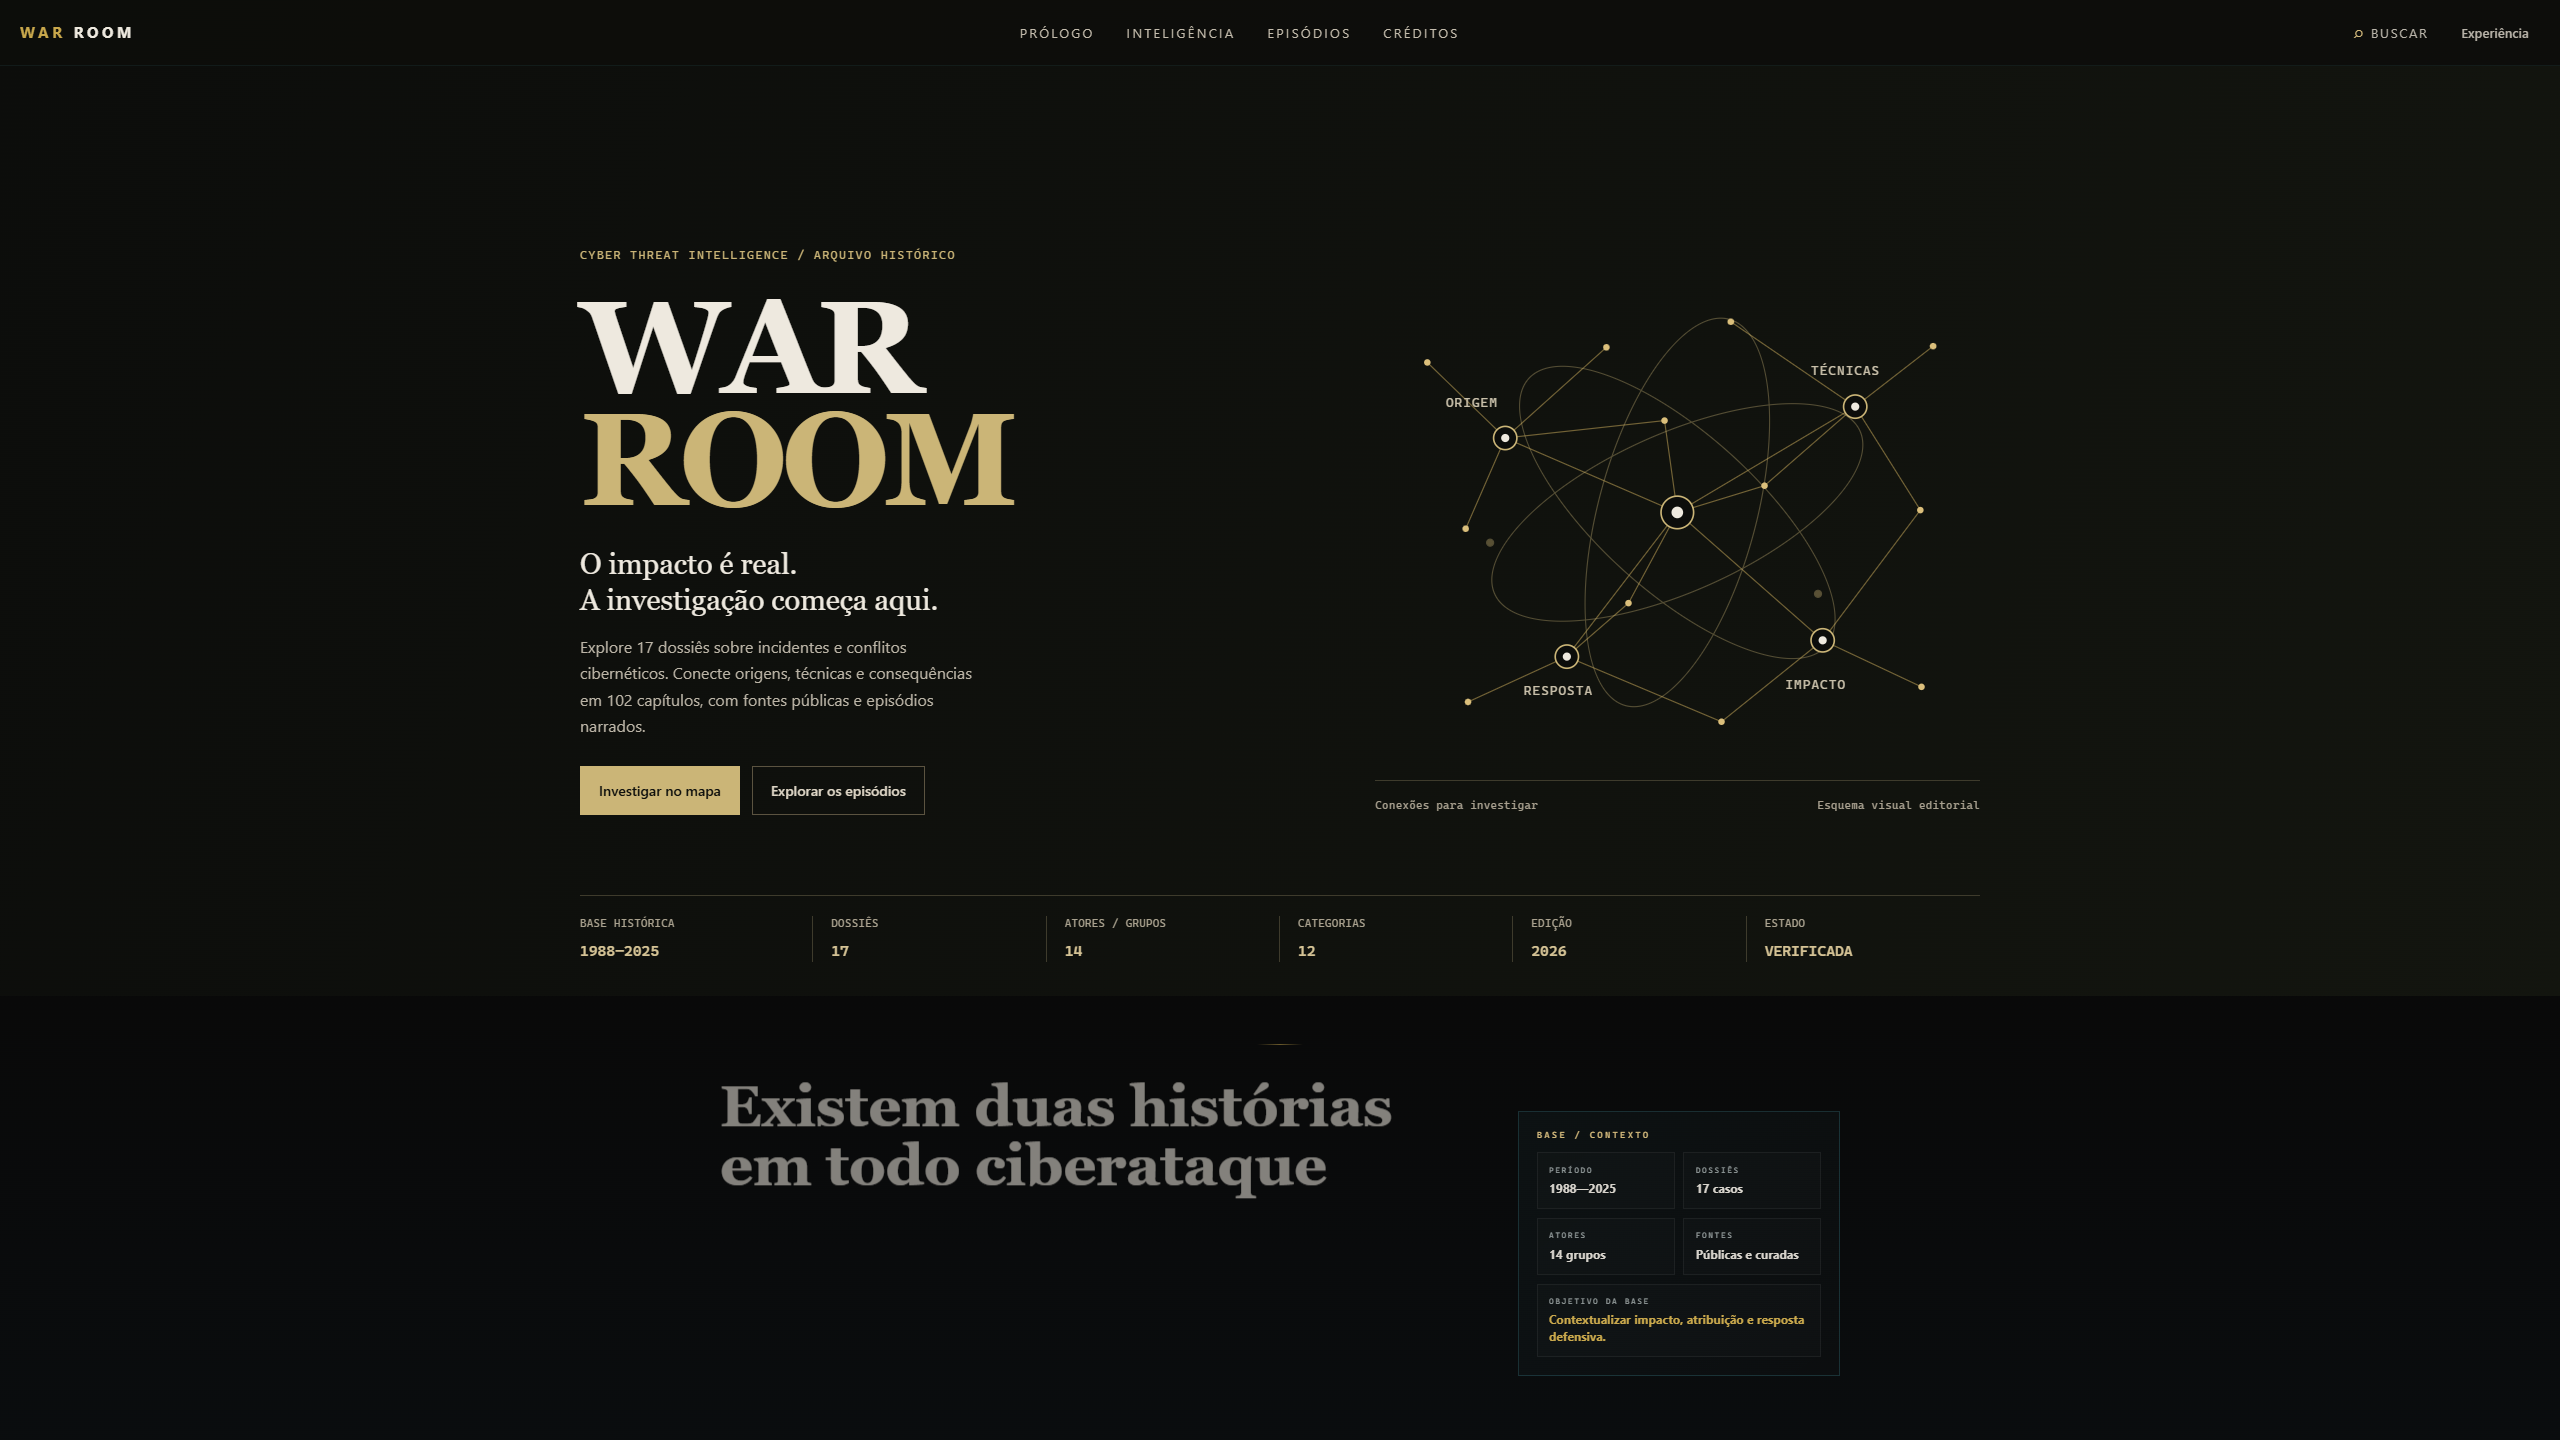
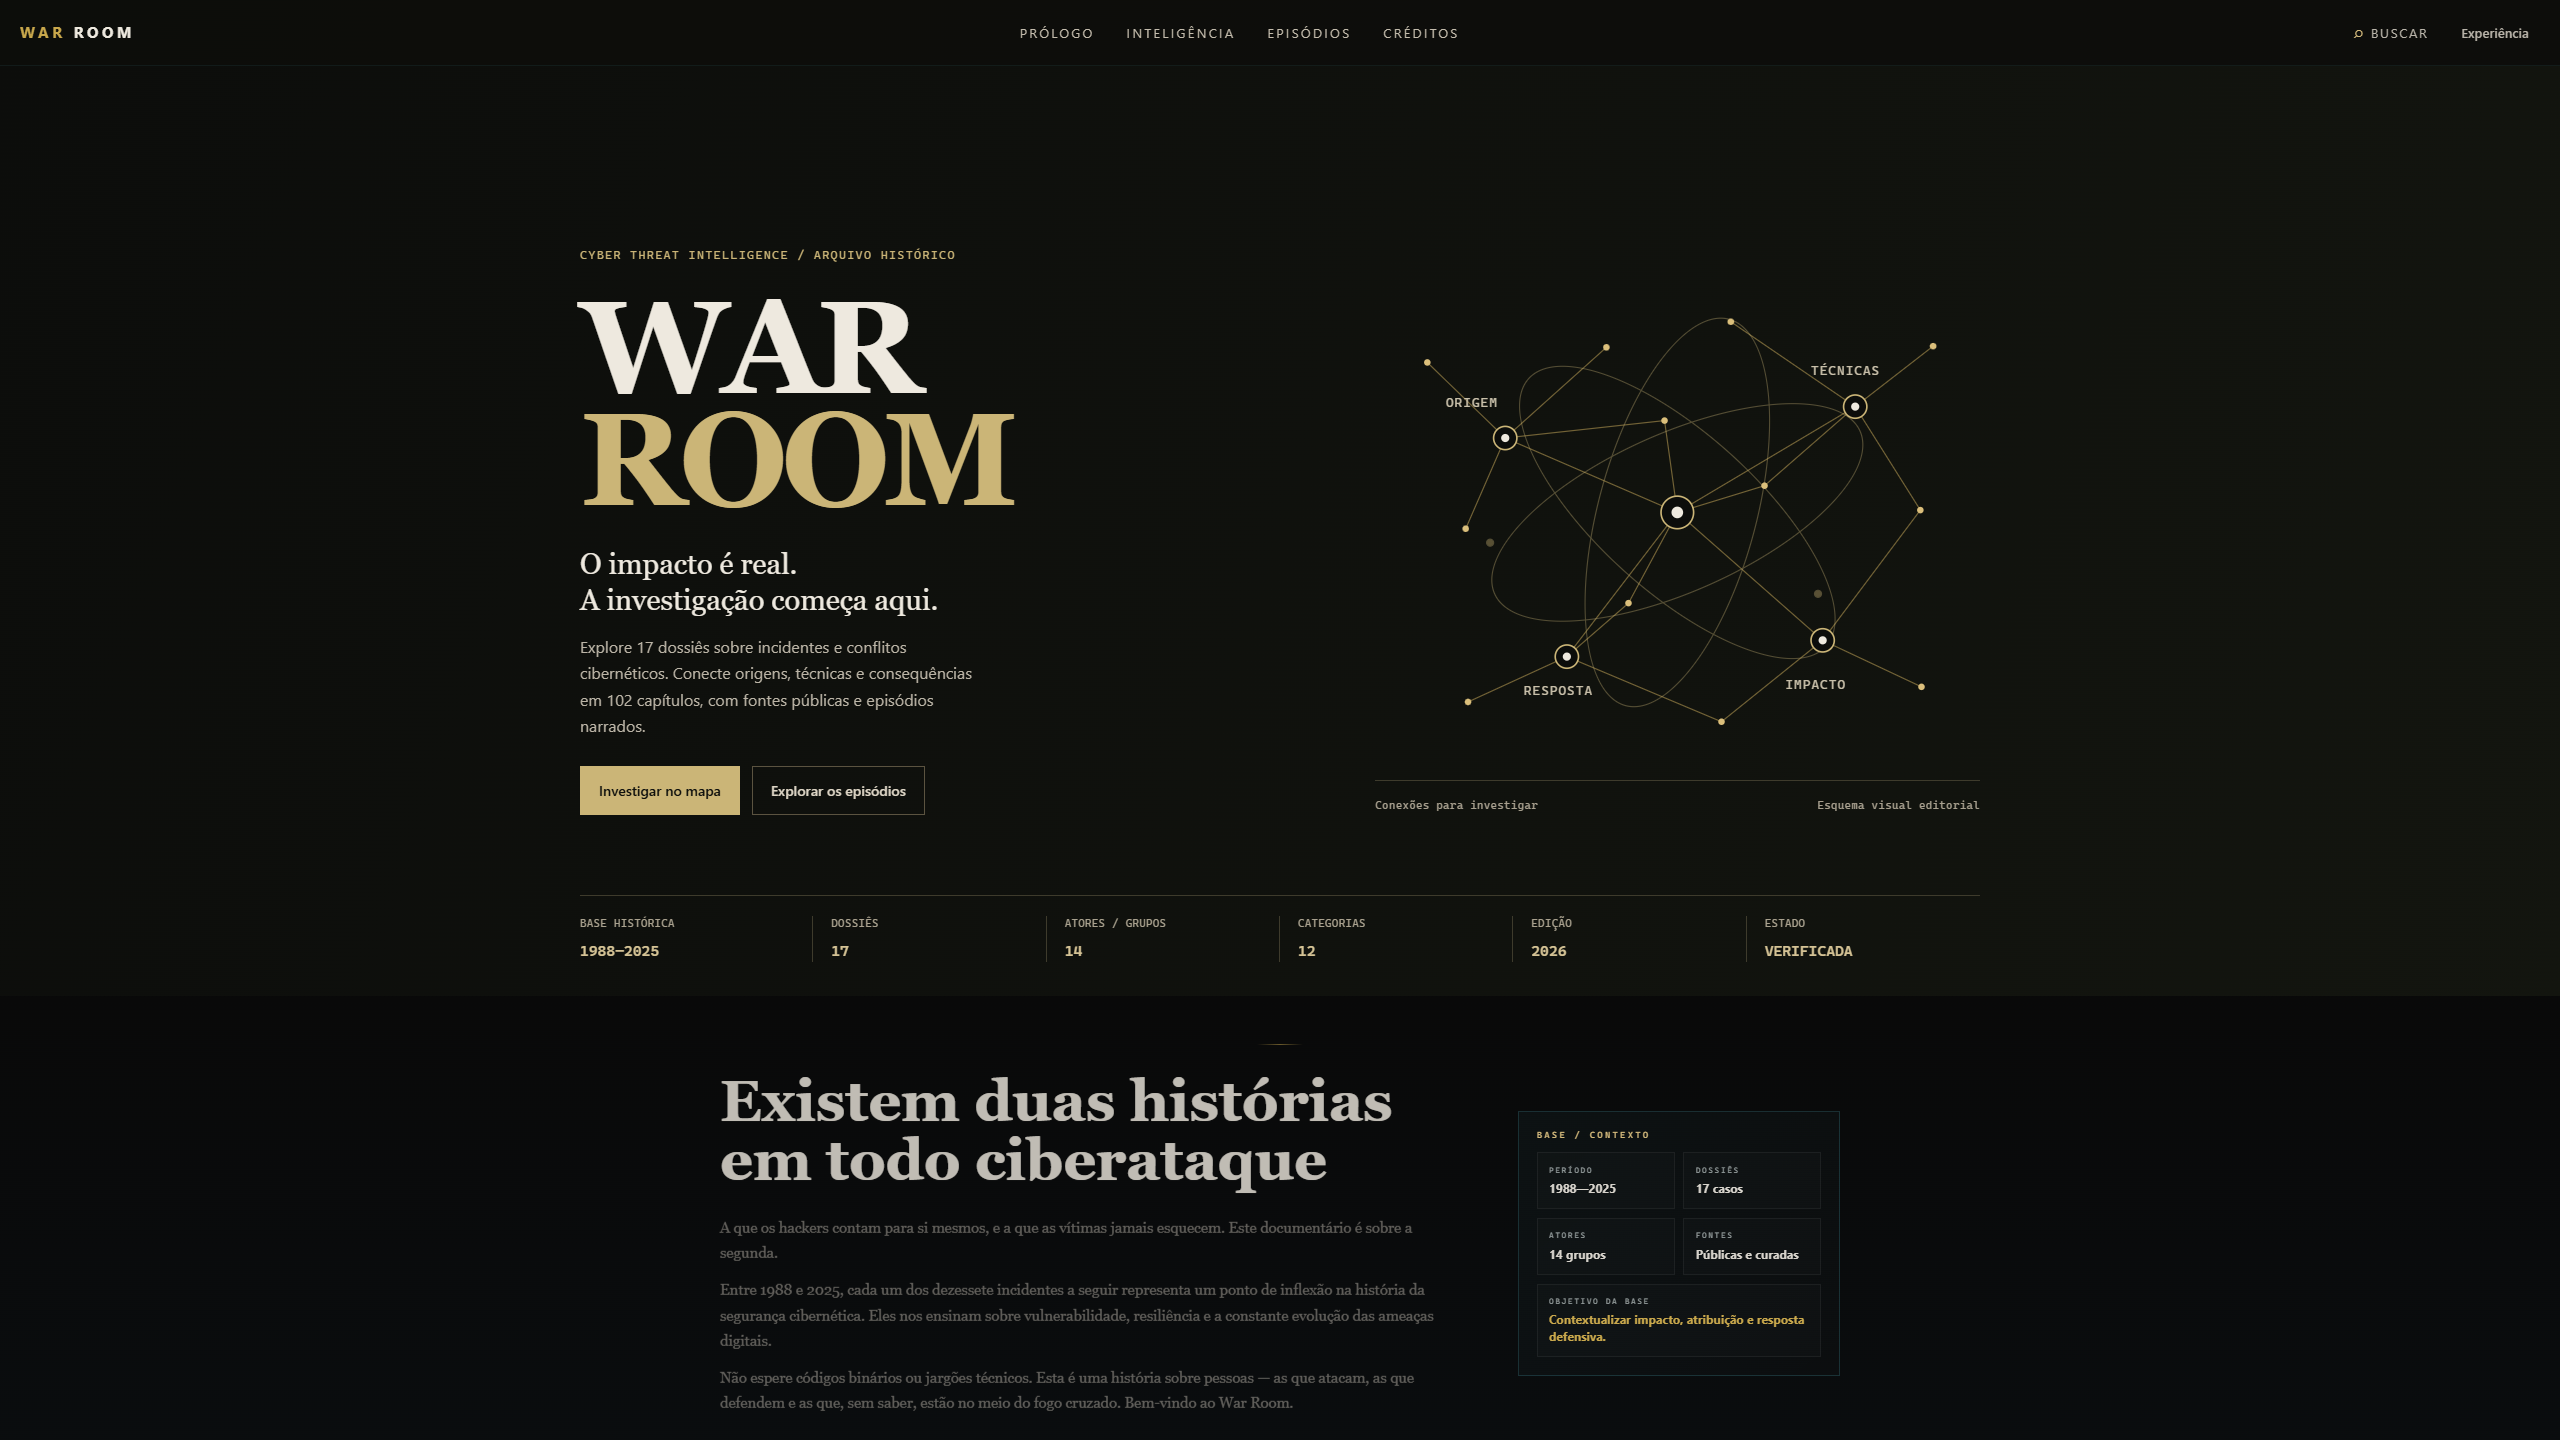
docs(release): record verified entrance and HD campaign publication

diff --git a/docs/ENTRANCE_VALIDATION.md b/docs/ENTRANCE_VALIDATION.md
@@ -28,6 +28,7 @@ Os arquivos brutos da medição ficam em `audit/hero-before-be43e1e.json`, `audi
 - `tests/verify-experience.cjs`: desktop/mobile, 17 dossiês, abas, teclado, foco, Escape, histórico, busca, filtros, corrida/falha de galeria, efeitos reduzidos e vídeo real. As falhas/corridas remotas usam fixtures determinísticas.
 - `tests/verify-documentaries.cjs`: 102 capítulos em desktop/mobile, imagens locais, mapas, fontes, links diretos, histórico e renderização sob demanda.
 - Quatro verificadores originais, integridade canônica e `git diff --check` executados na entrega. Capturas revisadas em `assets/screenshots/entrance/`.
+- `tests/verify-release-files.cjs`: comparação dos bytes dos 16 PNGs/mestres e ZIP, fontes de entrada, prévia de download, link direto e reprodução real de capítulo/episódio com pausa em mudança de aba e Escape, em desktop/mobile. A barra do preloader recebe verificação de tamanho para evitar o encolhimento pelo layout flex legado.
 
 ## Materiais
 
@@ -41,4 +42,12 @@ A rede da hero é editorial, sem representar relações causais do corpus. Teste
 
 ## Publicação
 
-A publicação desta atualização foi explicitamente solicitada pelo proprietário. Branch de trabalho `codex/war-room-experience` preservada; Pages permanece estático na raiz da branch main, com caminhos relativos sob `/WAR_ROOM/`. O resultado e a revisão servida serão registrados após o deploy.
+A publicação desta atualização foi explicitamente solicitada pelo proprietário. Branch de trabalho `codex/war-room-experience` preservada; main avançada sem force push. Runtime final da entrada: `a9272bf`, [Pages run 37151443101 aprovado](https://github.com/EDY075/WAR_ROOM/actions/runs/37151443101). Pages permanece estático na raiz de main, com caminhos relativos sob `/WAR_ROOM/`.
+
[1 lines of base64/hex data omitted]
+
+Preview e download público: [materiais de divulgação](https://edy075.github.io/WAR_ROOM/assets/media/war-room-launch-2026/). As oito peças/mestres não foram alteradas depois da verificação do ZIP.
+
+O portfólio recebeu a captura real da nova entrada em DPR 2, reduzida para WebP 640/1080/1600 com novos nomes para evitar cache antigo. Runtime `01af7f2`, Worker `85c20a35-3a11-4be5-9bf5-5e7f8c3e0b30`; lint/tipagem/build/dry-run, integração pública desktop/mobile, links, galeria/3D, foco/Escape, transição e hashes das três capas aprovados. O checkout original permanece intacto: 276 hashes, zero diferenças. A auditoria adicional npm apontou 12 avisos preexistentes (10 high / 2 moderate); package/lockfile não foram alterados e não houve atualização forçada de dependências. Essa auditoria é uma limitação registrada, não um teste aprovado. Detalhes no `docs/DEPLOYMENT.md` do portfólio.
+
+Revisões seguintes de documentação/capturas/testes não mudam o runtime indicado acima.

diff --git a/.ai/AI_HANDOFF.md b/.ai/AI_HANDOFF.md
@@ -8,6 +8,8 @@ Read the documents in the order defined by [README.md](README.md). Then run `git
 
 Latest sprint: the owner requested a lighter, clearer hero/preloader, mouse sparks instead of the circular glow, three social credits, fresh website publication and a ZIP of HD Instagram/LinkedIn pieces. Implemented static editorial SVG network, bounded pointer-only sparks, no idle hero JS rendering or artificial intro minimum, larger map shell and confirmed Instagram edmilson_zn_. Read [ENTRANCE_VALIDATION.md](../docs/ENTRANCE_VALIDATION.md) for current before/after evidence and `assets/media/war-room-launch-2026/` for eight upload images, eight 2× masters, editable source and copy. No social posting or audio regeneration is part of this sprint.
 
+Published/verified: WAR ROOM runtime `a9272bf`, Pages run `37151443101`; portfolio cover runtime `01af7f2`, Worker `85c20a35-3a11-4be5-9bf5-5e7f8c3e0b30`. Public desktop/mobile suites cover all 17 dossiers/102 chapters and current entrance; ZIP/16 image/master bytes match. Original dirty portfolio checkout preserved (276 hashes unchanged). Existing portfolio npm advisories are documented; do not apply force dependency changes as part of an image refresh.
+
 The 2026-10-03 documentary evolution was published to main, GitHub Pages and the existing portfolio after explicit owner authorization; `codex/war-room-experience` is preserved. The user extended the documentary standard to every case: 17 six-chapter narratives, local real cartography, labeled artwork, plus the NotPetya campaign with narrated/silent video. The user then approved their own voice sample and authorized prolonged narration for every case: 17 full episodes, 102 chapter MP3s, clarity treatment and reading/source-linked lazy controls. Production/QA: [NARRATION_PRODUCTION.md](../docs/NARRATION_PRODUCTION.md). Read [CURRENT_STATE.md](CURRENT_STATE.md) for tabs/history/motion changes, artifacts and fresh browser/CDP evidence. On 2026-10-03 the owner explicitly authorized publishing the update to GitHub, GitHub Pages and their existing portfolio. Publication is complete; deployment evidence is recorded in CURRENT_STATE.md and [PUBLICATION_2026-10-03.md](../docs/PUBLICATION_2026-10-03.md). v1.1.0 remains the previous historical tag.
 
 - Project: WAR ROOM, a static Cyber Threat Intelligence center with cinematic dossier narratives.

diff --git a/.ai/CURRENT_STATE.md b/.ai/CURRENT_STATE.md
@@ -3,10 +3,10 @@
 | Field | State |
 | --- | --- |
 | Public release | Documentary edition published 2026-10-03; previous tag `v1.1.0 — CTI Evolution` preserved |
-| Current work | Documentary experience, cartography, campaign and authorized prolonged personal-voice narration across all 17 cases, published on GitHub, Pages and the portfolio |
+| Current work | All 17 documentaries/narrations preserved; lighter entrance, social credits and HD campaign published; portfolio cover synchronized |
 | Branch | Public `main`; `codex/war-room-experience` preserved |
 | Last sprint | 2026-10-03 · lighter hero/preloader, bounded sparks, confirmed social credits and HD launch package |
-| Last commit | Resolve with `git log -1 --oneline`; runtime `58ee3e4`; documentation revision resolves with git log |
+| Last commit | Resolve with `git log -1 --oneline`; entrance runtime `a9272bf`; documentation revisions resolve with git log |
 | Public Pages | https://edy075.github.io/WAR_ROOM/ (documentary edition live) |
 | Local preview | http://127.0.0.1:4173/WAR_ROOM/?tab=story#dossier-notpetya |
 
@@ -29,7 +29,7 @@
 
 ## Publication · 2026-10-03
 
-GitHub Pages runtime `58ee3e4`, successful build `37146988319`. Existing portfolio Worker version `7f40d6c8-619f-470f-b6f7-f089745dc59d`; new public case links to WAR ROOM and all 17 narrations. Public browser tests and served-file hashes passed; full evidence and limits: [PUBLICATION_2026-10-03.md](../docs/PUBLICATION_2026-10-03.md).
+Latest entrance runtime `a9272bf`, successful Pages build `37151443101`. Portfolio cover runtime `01af7f2`, existing Worker version `85c20a35-3a11-4be5-9bf5-5e7f8c3e0b30`. Public entrance/experience/documentary checks passed, as did direct chapter/full audio playback, all 16 promotional image/master hashes, ZIP/source hashes and portfolio navigation/cover hashes. Both codex branches are preserved; main advanced without force push. The original portfolio checkout still has zero differences across the 276-file saved snapshot. The portfolio's additional npm audit has 12 existing dependency advisories; package/lockfile unchanged, remediation belongs to a separately validated dependency update. Full evidence and limits: [ENTRANCE_VALIDATION.md](../docs/ENTRANCE_VALIDATION.md) and [PUBLICATION_2026-10-03.md](../docs/PUBLICATION_2026-10-03.md).
 
 ## Validation and evidence
 

diff --git a/.ai/MEMORY_LOG.md b/.ai/MEMORY_LOG.md
@@ -2,6 +2,8 @@
 
 ## Sprint · lighter entrance and HD promotion · 2026-10-03
 
+Publication completed: runtime `a9272bf` passed Pages run `37151443101` and public entrance, all 17 routes/102 chapters, narration smoke and full promotional file/hash checks. Portfolio cover `01af7f2` deployed as Worker `85c20a35-3a11-4be5-9bf5-5e7f8c3e0b30`; public navigation/transitions and three cover hashes passed. Original portfolio snapshot: 276 files, zero differences. Additional npm audit reports 12 existing advisories; dependency versions unchanged and limitation recorded. Loader progress layout is now independent of the legacy flex/min-height, with visibility regression coverage. Final screenshots include the actual public hero and controlled pending-font preloader.
+
 Owner requested an improved actual WAR ROOM hero/preloader, sparks instead of the mouse glow, clearer connected points, better performance, three social profiles and a new website publication with postable ZIP. Instagram confirmed as edmilson_zn_. Added static local vector composition and a bounded pointer spark module; removed full-screen Canvas, global particles and parallax renderers. Loader follows readiness, with a 700 ms font ceiling and keyboard/focus regression coverage. Map shell widened; original 17 records/102 chapters/audio remain intact. Current three-run before/after median idle task time: desktop 250.894 → 42.907 ms; mobile emulation 71.526 → 48.066 ms. A continuously animated SVG candidate regressed and was discarded. Eight social exports + eight 2× masters, editable HTML, captions, alt text and links delivered. Browser entrance/experience/documentary tests pass; publication outcome follows in CURRENT_STATE/ENTRANCE_VALIDATION. No social post sent.
 
 This is the chronological project memory. `CURRENT_STATE.md` is the fast snapshot; `KNOWLEDGE_BASE.md` holds reusable rules.

diff --git a/docs/PUBLICATION_2026-10-03.md b/docs/PUBLICATION_2026-10-03.md
@@ -1,5 +1,9 @@
 # Publicação · 03/10/2026
 
+## Atualização posterior · entrada e divulgação HD
+
+Por nova solicitação explícita do proprietário, a hero/preloader foi refinada, a luz do mouse substituída por faíscas limitadas, os três perfis adicionados aos créditos e um ZIP HD de divulgação publicado. Runtime `a9272bf`, [Pages run 37151443101](https://github.com/EDY075/WAR_ROOM/actions/runs/37151443101) aprovado. [Preview/ZIP/textos](https://edy075.github.io/WAR_ROOM/assets/media/war-room-launch-2026/). A capa real no portfólio também foi atualizada: runtime `01af7f2`, Worker `85c20a35-3a11-4be5-9bf5-5e7f8c3e0b30`. Toda a validação atual, comparação de processamento e limites estão em [ENTRANCE_VALIDATION.md](ENTRANCE_VALIDATION.md). Os registros abaixo descrevem a primeira publicação documental e não devem ser tratados como a versão atual da hero.
+
 O proprietário autorizou explicitamente atualizar GitHub, GitHub Pages e seu portfólio, substituindo o escopo anterior de revisão local.
 
 - WAR ROOM: https://github.com/EDY075/WAR_ROOM · runtime publicado `58ee3e476351a3adbbbc3ae108c99ba1277f8d84`, main; branch `codex/war-room-experience` preservada. Fast-forward, sem reescrever histórico. A tag v1.1.0 permanece como referência histórica.
